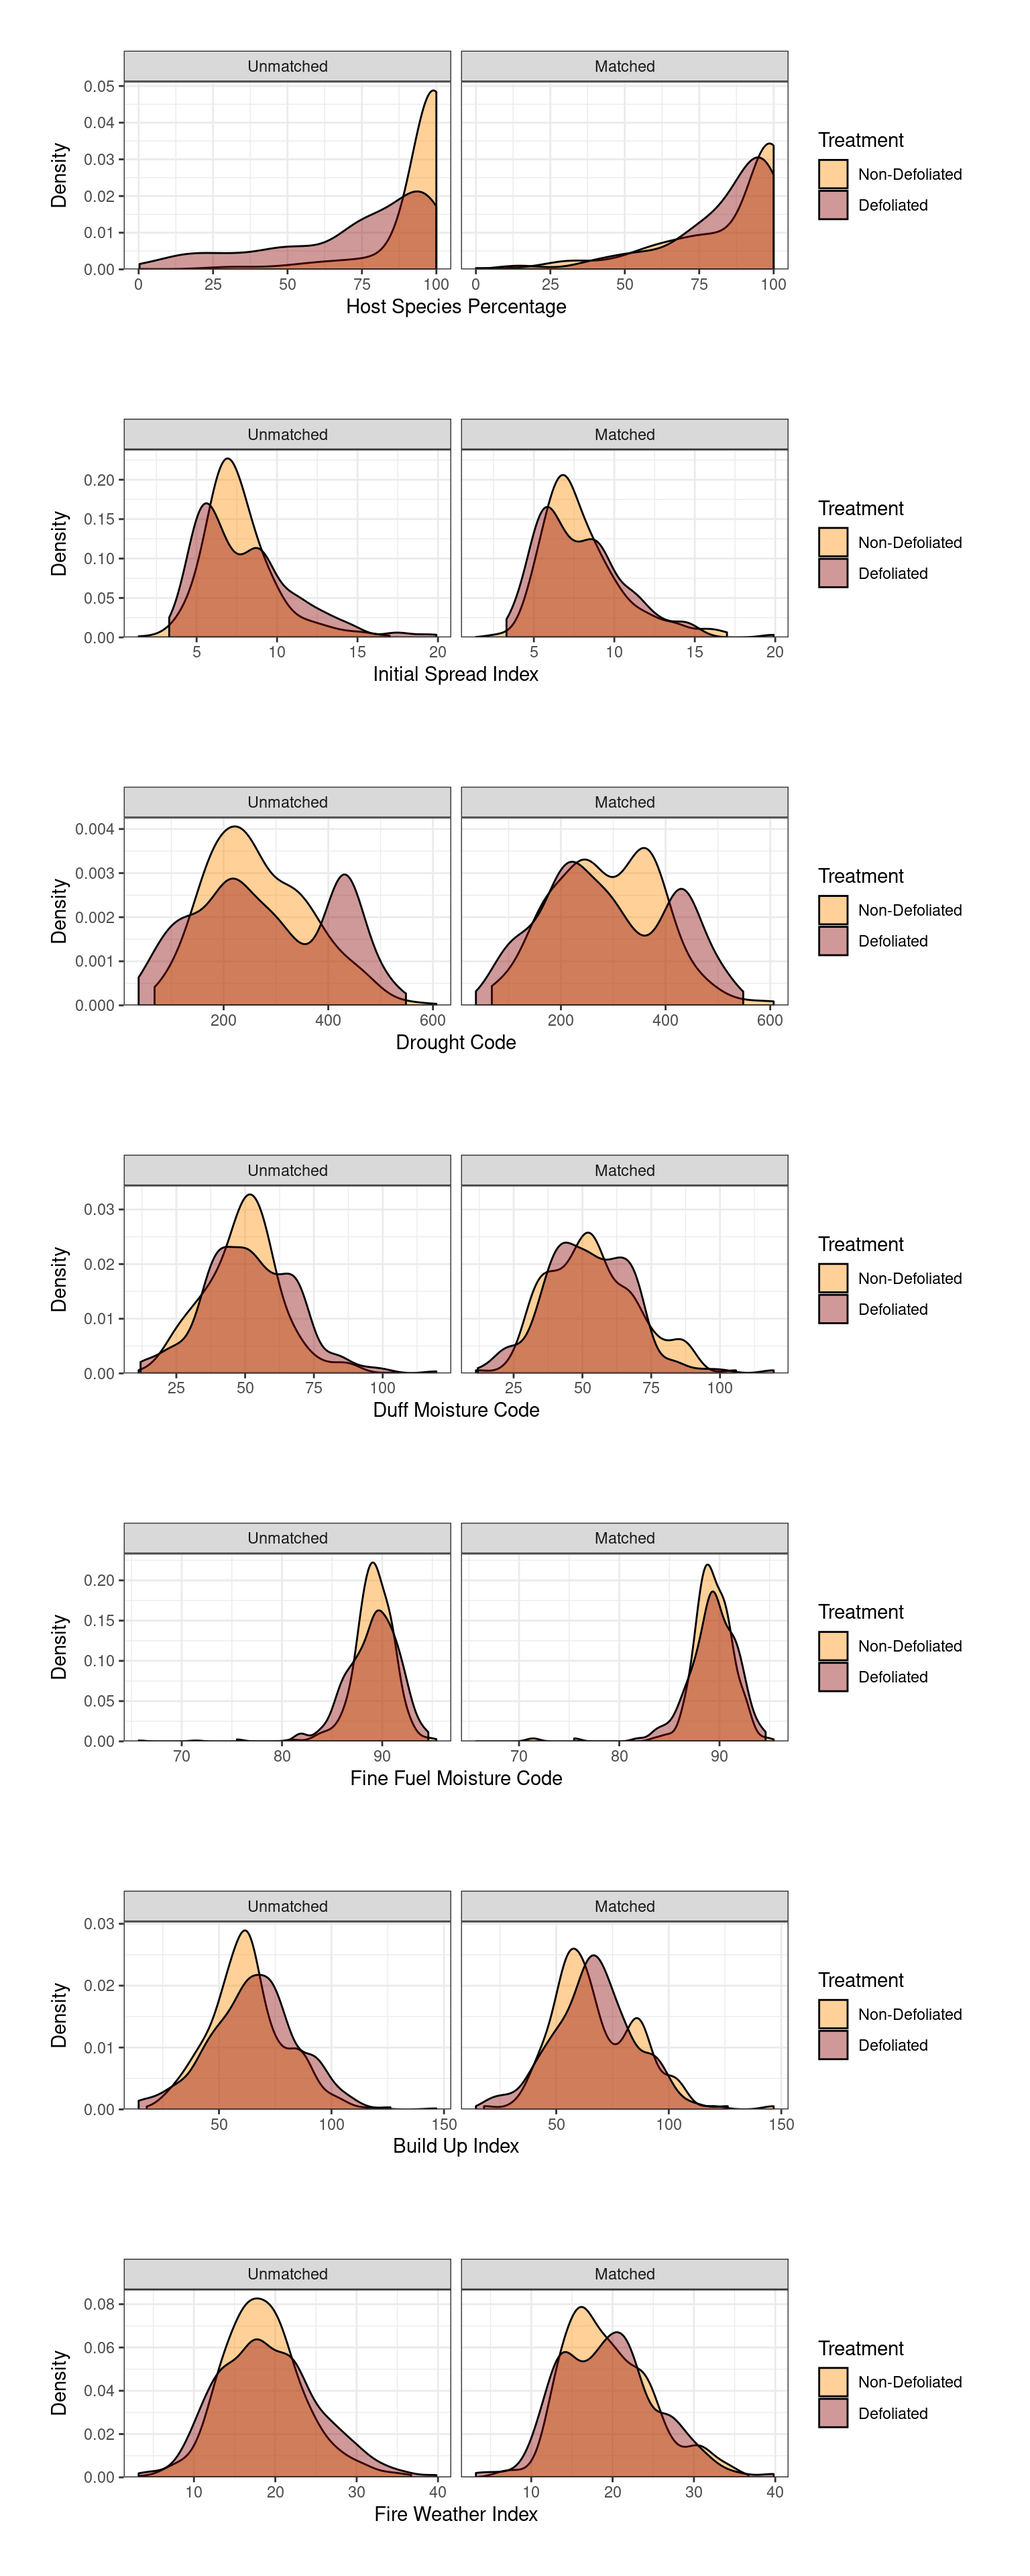
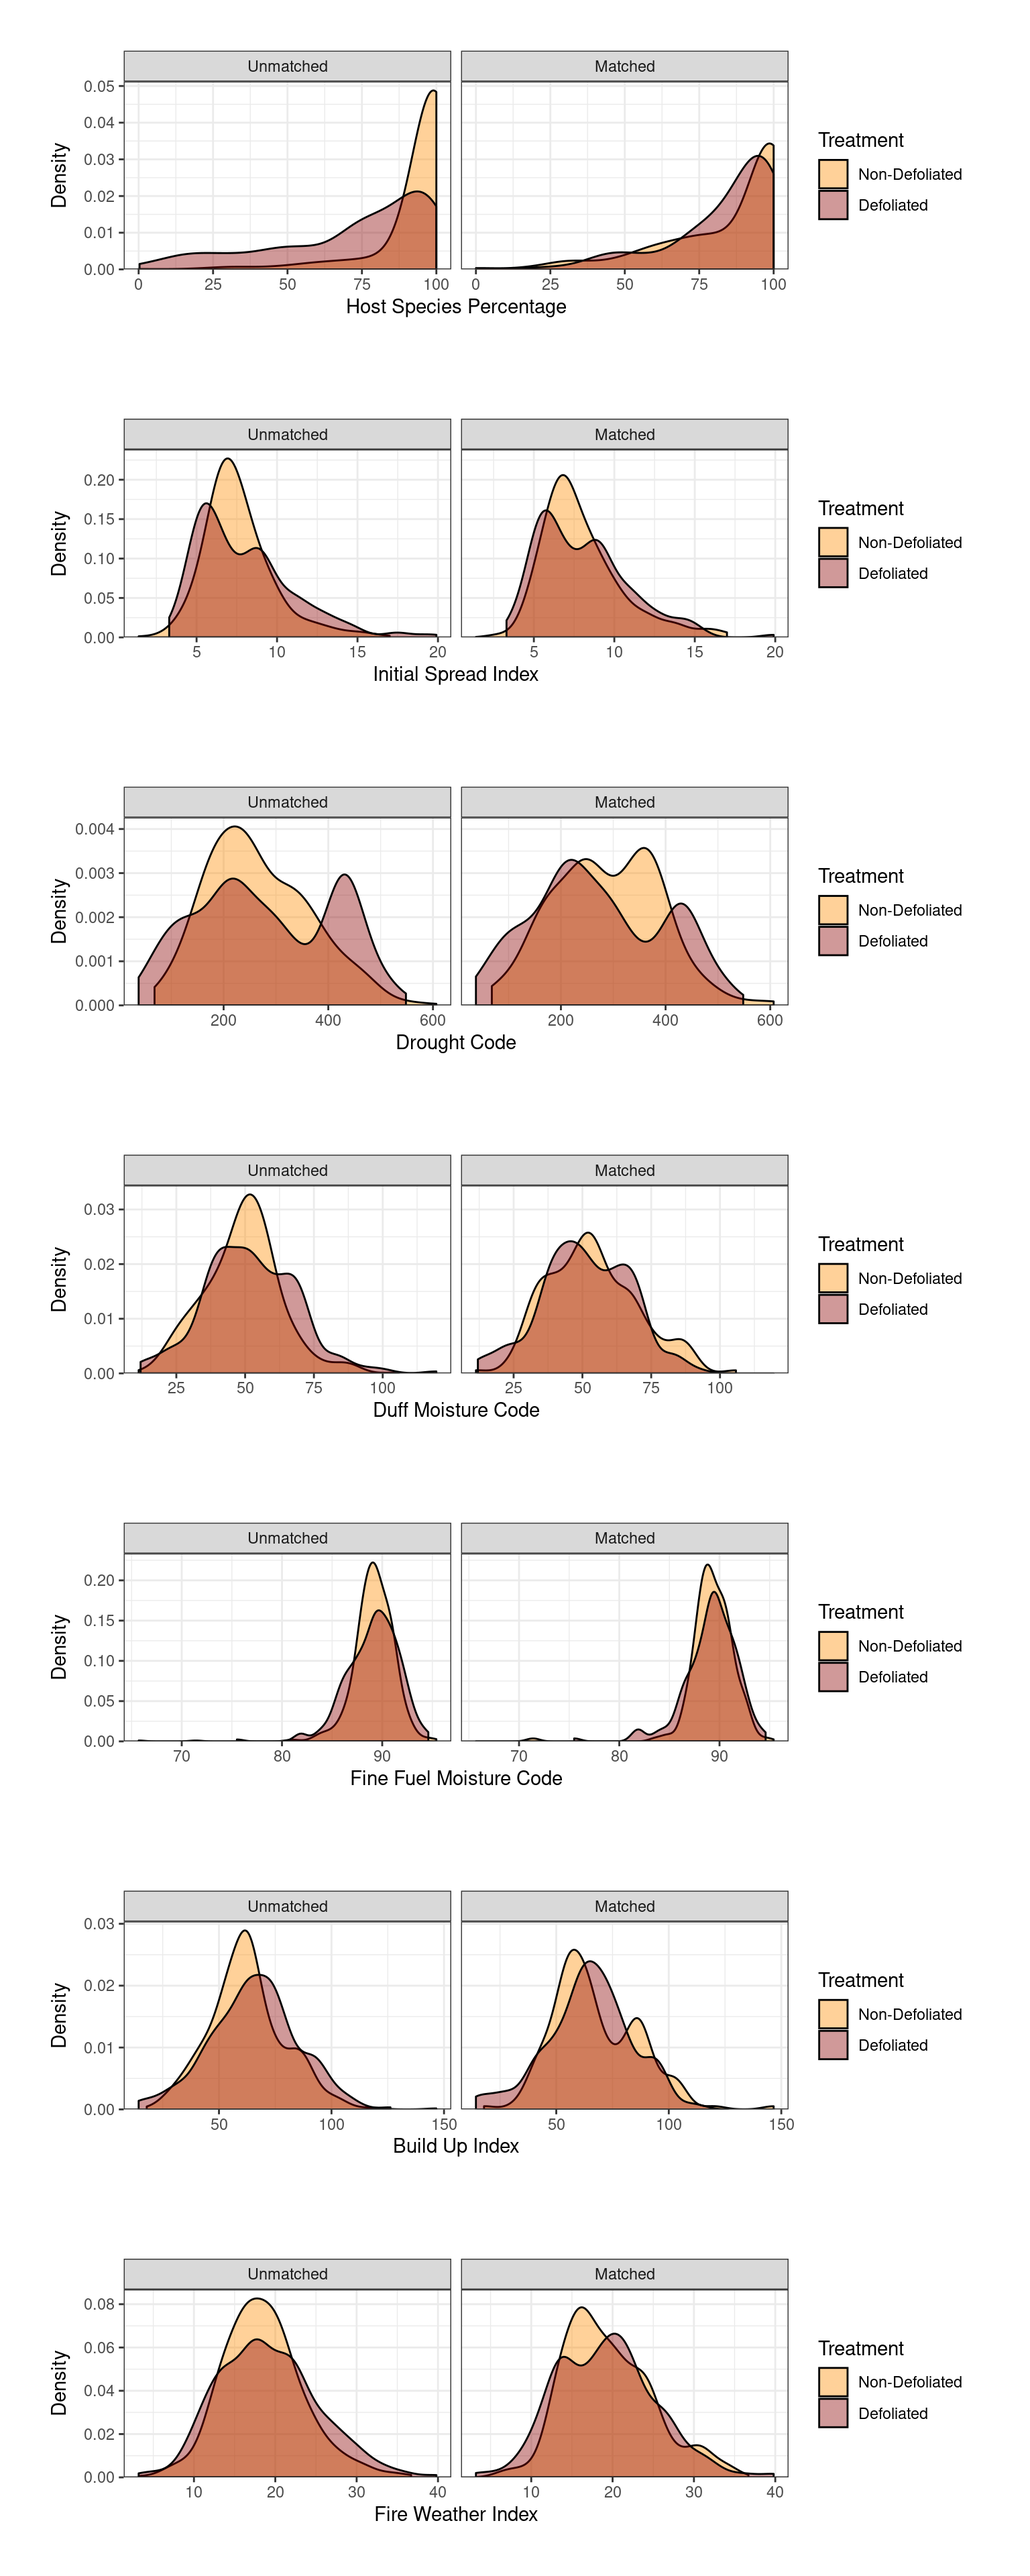
update report files

diff --git a/fire_insect_co-occurence_report.html b/fire_insect_co-occurence_report.html
@@ -222,7 +222,7 @@ ul.task-list li input[type="checkbox"] {
 <p><img src="fire_insect_co-occurence_report_files/figure-html/unnamed-chunk-7-1.png" class="img-fluid" width="768"></p>
 </div>
 </div>
-<p>For the subgroup analysis, prior to matching we subset the defoliated fires into three categories based on the time since defoliation. The categories were defined according to the “window of opportunity” outline by Fleming et al.&nbsp;(2002), who found that wildfire frequency and behaviour was disproportionately higher 3-9 years following defoliation. We subset defoliated fires into the following 3 categories: 0-2 years after defoliation, 3-9 years and greater than 10 years <a href="#tbl-ss-subgroup">Table&nbsp;3</a>. We compared multiple matching matching methods for each subgroup. The model with the best fit was chosen as the model with the best covariate balance evaluated using SMD &lt;0.25 for each covariate (Stuart et al.&nbsp;2013). We evaluated matching on propensity score and/or Mahalanobis distances without replacement. Propensity scores were estimated using both nearest neighbour and optimal matching with either logit or probit link functions and we evaluated three separate calipers (Appendix A). The best model for each subgroup is presented in <strong>?@tbl-sugroup-best-model</strong>.</p>
+<p>For the subgroup analysis, prior to matching we subset the defoliated fires into three categories based on the time since defoliation. The categories were defined according to the “window of opportunity” outline by Fleming et al.&nbsp;(2002), who found that wildfire frequency and behaviour was disproportionately higher 3-9 years following defoliation. We subset defoliated fires into the following 3 categories: 0-2 years after defoliation, 3-9 years and greater than 10 years <a href="#tbl-ss-subgroup">Table&nbsp;3</a>. We compared multiple matching matching methods for each subgroup. The model with the best fit was chosen as the model with the best covariate balance evaluated using SMD &lt;0.25 for each covariate (Stuart et al.&nbsp;2013). We evaluated matching on propensity score and/or Mahalanobis distances without replacement. Propensity scores were estimated using both nearest neighbour and optimal matching with either logit or probit link functions and we evaluated three separate calipers (Appendix A). The best model for each subgroup is presented in <a href="#tbl-sugroup-best-model">Table&nbsp;4</a> .</p>
 <div class="cell">
 <div class="cell-output-display">
 <div id="tbl-ss-subgroup" class="anchored">
@@ -259,23 +259,6 @@ ul.task-list li input[type="checkbox"] {
 </div>
 <div class="cell">
 
-</div>
-<section id="subgroup-analysis-after-propensity-score-matching" class="level4">
-<h4 class="anchored" data-anchor-id="subgroup-analysis-after-propensity-score-matching">Subgroup analysis after propensity score matching</h4>
-<p>make a function that tries a bunch of different matching, with and without replacement</p>
-<div class="cell">
-<div class="cell-output cell-output-stdout">
-<pre><code>A `matchit` object
- - method: 1:1 nearest neighbor matching without replacement
- - distance: Mahalanobis [matching]
-             Propensity score [caliper]
-
-             - estimated with logistic regression
- - caliper: &lt;distance&gt; (0.048)
- - number of obs.: 699 (original), 200 (matched)
- - target estimand: ATT
- - covariates: host_pct, isi_90, dc_90, dmc_90, ffmc_90, bui_90, fwi_90</code></pre>
-</div>
 </div>
 <div class="cell">
 
@@ -337,8 +320,8 @@ be ignored.</code></pre>
 <pre><code># A tibble: 2 × 2
   history        `Number of Fires`
   &lt;chr&gt;                      &lt;int&gt;
-1 Non-Defoliated                94
-2 Defoliated                    94</code></pre>
+1 Non-Defoliated                98
+2 Defoliated                    98</code></pre>
 </div>
 </div>
 <div class="cell">
@@ -370,31 +353,55 @@ be ignored.</code></pre>
 </div>
 <div class="cell">
 <div class="cell-output-display">
-<p><img src="fire_insect_co-occurence_report_files/figure-html/unnamed-chunk-18-1.png" class="img-fluid" width="672"></p>
+<p><img src="fire_insect_co-occurence_report_files/figure-html/unnamed-chunk-17-1.png" class="img-fluid" width="672"></p>
 </div>
 </div>
-<div id="tbl-sugroup-best-model" class="cell tbl-parent quarto-layout-panel anchored" data-tbl-cap="Matching parameters for subgroup models chosen based on best covariate balance of all covariates with SMD <0.25.">
-<div class="panel-caption table-caption">
-<p><strong>?(caption)</strong></p>
+<div class="cell">
+<div class="cell-output-display">
+<div id="tbl-sugroup-best-model" class="anchored">
+
+<table class="table" style=""><caption>Table&nbsp;4:  Matching parameters for subgroup models chosen based on best covariate balance of all covariates with SMD &lt;0.25. </caption>
+ <thead>
+  <tr>
+   <th style="text-align:left;"> Subgroup </th>
+   <th style="text-align:left;"> Method </th>
+   <th style="text-align:left;"> Matching </th>
+   <th style="text-align:left;"> Distance </th>
+   <th style="text-align:left;"> Link </th>
+   <th style="text-align:left;"> Caliper </th>
+  </tr>
+ </thead>
+<tbody>
+  <tr>
+   <td style="text-align:left;"> 0-2 years after defoliation </td>
+   <td style="text-align:left;"> 1:1 nearest neighbor matching without replacement </td>
+   <td style="text-align:left;"> Mahalanobis distance for matching and a propensity score caliper to ensure close matches </td>
+   <td style="text-align:left;"> estimated with logistic regression (glm) </td>
+   <td style="text-align:left;"> logit </td>
+   <td style="text-align:left;"> 0.0583951 </td>
+  </tr>
+  <tr>
+   <td style="text-align:left;"> 3-9 years after defoliation </td>
+   <td style="text-align:left;"> 1:1 nearest neighbor matching without replacement </td>
+   <td style="text-align:left;"> Mahalanobis </td>
+   <td style="text-align:left;"> estimated with mahalanobis distances </td>
+   <td style="text-align:left;"> NA </td>
+   <td style="text-align:left;"> NA </td>
+  </tr>
+  <tr>
+   <td style="text-align:left;"> 10+ years after defoliation </td>
+   <td style="text-align:left;"> 1:1 nearest neighbor matching without replacement </td>
+   <td style="text-align:left;"> Mahalanobis </td>
+   <td style="text-align:left;"> estimated with mahalanobis distances </td>
+   <td style="text-align:left;"> NA </td>
+   <td style="text-align:left;"> NA </td>
+  </tr>
+</tbody>
+</table>
+
 </div>
-<div class="quarto-layout-row quarto-layout-valign-top">
-<div class="cell-output cell-output-stdout quarto-layout-cell" style="flex-basis: 100.0%;justify-content: center;">
-<pre><code>                     Subgroup                                            Method
-1 0-2 years after defoliation 1:1 nearest neighbor matching without replacement
-2 3-9 years after defoliation 1:1 nearest neighbor matching without replacement
-3 10+ years after defoliation 1:1 nearest neighbor matching without replacement
-                                                                                  Matching
-1 Mahalanobis distance for matching and a propensity score caliper to ensure close matches
-2                                                                              Mahalanobis
-3                                                                              Mahalanobis
-                                  Distance  Link    Caliper
-1 estimated with logistic regression (glm) logit 0.03893007
-2     estimated with mahalanobis distances  &lt;NA&gt;         NA
-3     estimated with mahalanobis distances  &lt;NA&gt;         NA</code></pre>
 </div>
 </div>
-</div>
-</section>
 <section id="host-species-percentage" class="level4">
 <h4 class="anchored" data-anchor-id="host-species-percentage">Host species percentage</h4>
 <p>Now lets look at the distribution of host species percentage with this subset of data</p>
@@ -402,7 +409,7 @@ be ignored.</code></pre>
 <div class="cell-output-display">
 <div id="tbl-host-species-percentage" class="anchored">
 
-<table class="table" style="margin-left: auto; margin-right: auto;"><caption>Table&nbsp;4:  Distribution of Host Species Percentage between Wildfire-Insect co-occurrence </caption>
+<table class="table" style="margin-left: auto; margin-right: auto;"><caption>Table&nbsp;5:  Distribution of Host Species Percentage between Wildfire-Insect co-occurrence </caption>
  <thead>
   <tr>
    <th style="text-align:center;"> Host Percent </th>
